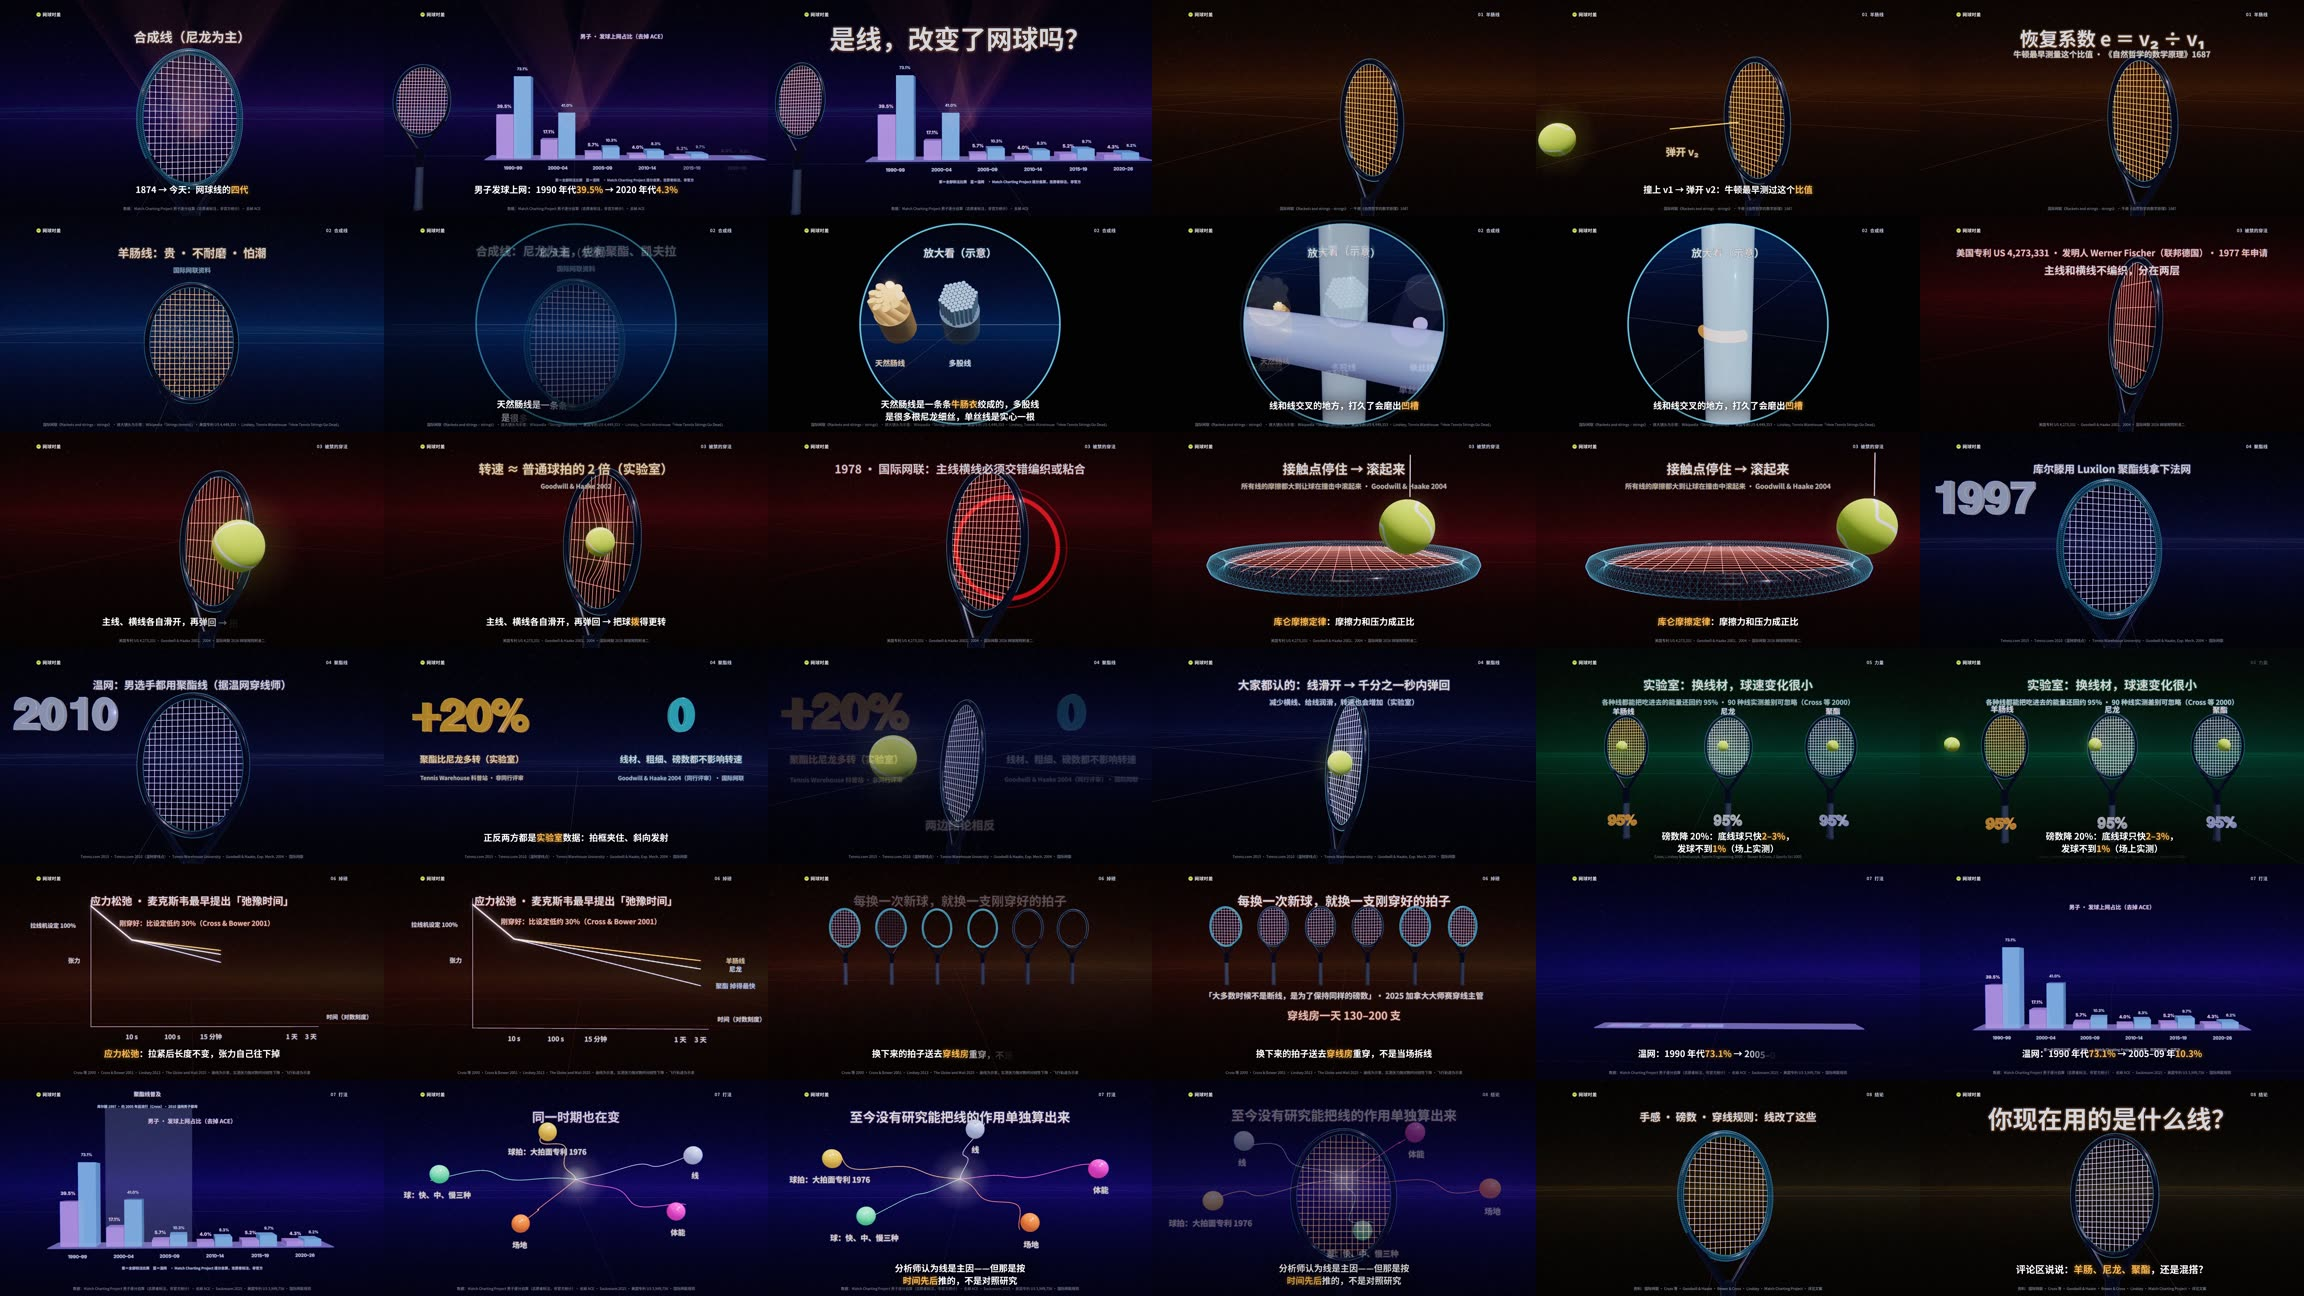
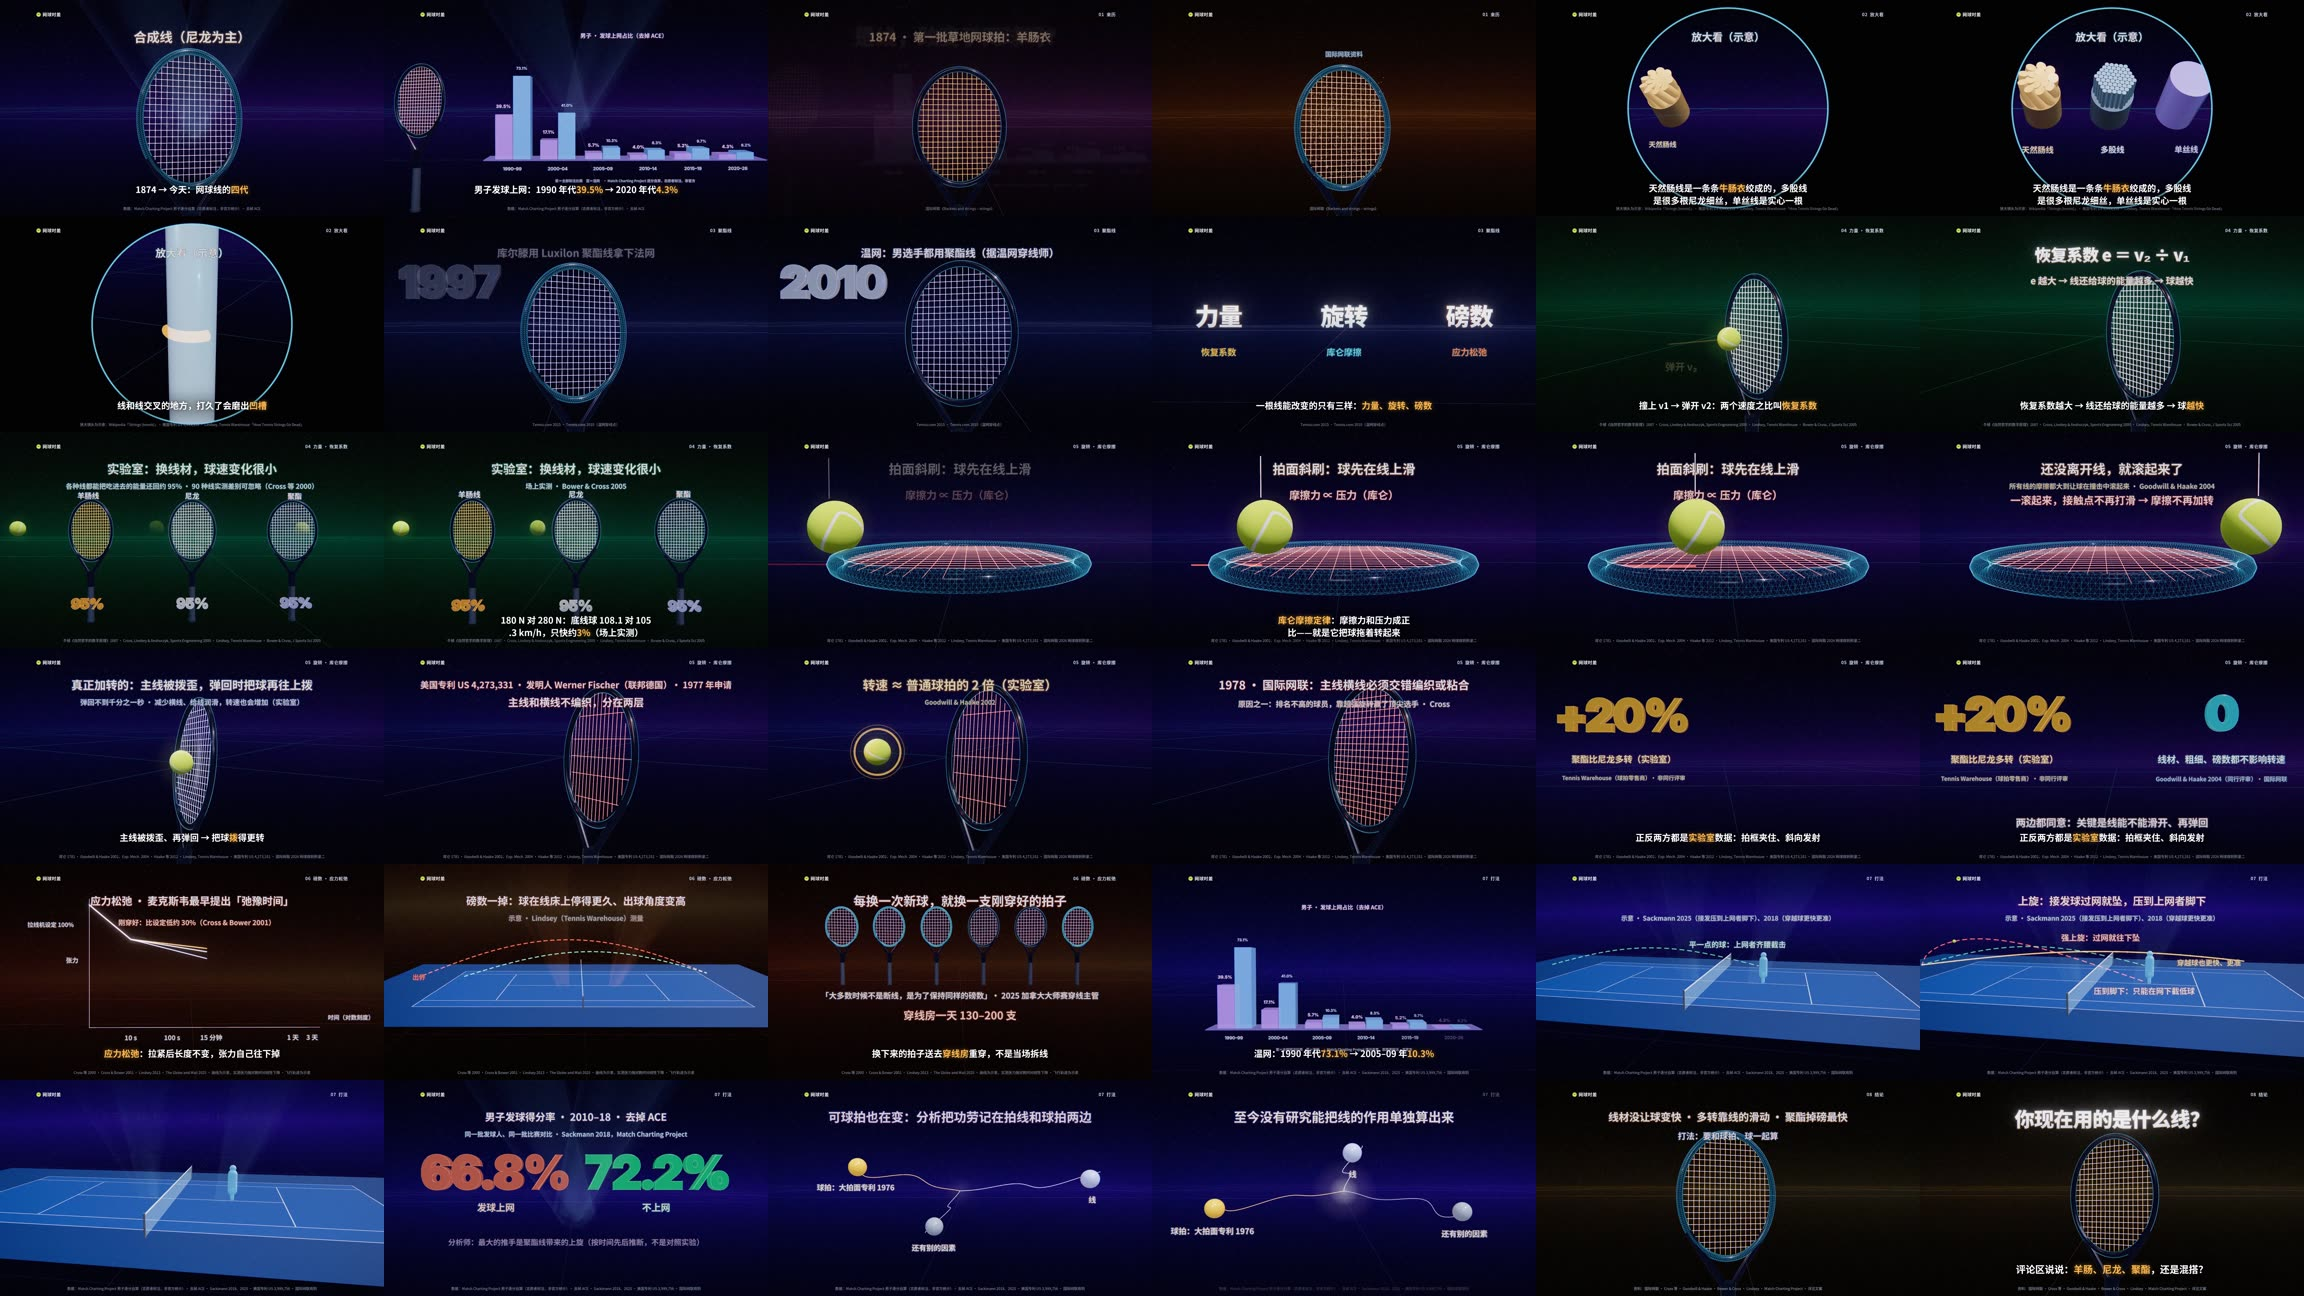
vibetennis EP07 中文版重做定稿：按「来历 → 力量／旋转／磅数 → 打法」重排、补齐会引出新疑问的解释、大字按内容选动效；成片 212.8 s（-14.7 LUFS），质检 0 项不合格，motion_check 0 处跳变，3D 层光晕 106 帧全合格；删 pushed.json 让合并重推
Claude-Session: https://claude.ai/code/session_011V3sK7PtEx5c633ksDxvyf

diff --git a/output/2026-11-05/vibetennis/vibetennis-strings-2026/copy.html b/output/2026-11-05/vibetennis/vibetennis-strings-2026/copy.html
@@ -248,19 +248,19 @@ textarea { display: block; width: 100%; resize: vertical; border: 1px solid var(
       <div class="label"><span>正文</span><button type="button" data-copy="body">复制正文</button></div>
       <textarea id="body" readonly>是线，改变了网球吗？
 
-1874年，第一批草地网球拍上穿的是羊的肠衣。羊肠线贵、不耐磨、怕潮，于是有了尼龙这样的合成线；1997年，库尔滕用聚酯线拿下法网，到2010年，温网的男选手都换上了它。150年，拍线换了四代。
+1874年，第一批网球拍穿的是羊肠。羊肠线贵、不耐磨、怕潮，于是有了尼龙这样的合成线；1997年，库尔滕用聚酯线拿下法网，到2010年，温网的男选手都换上了它。
 
-线到底改变了什么？三条老理论就能讲清楚。
+一根线能改变网球的，只有三样：力量、旋转、磅数。
 
-牛顿碰撞定律：球撞上线床再弹开，前后速度之比叫恢复系数，牛顿最早测过。实验室里换一种线，球速变化很小；磅数降20%，底线球也只快2%到3%，发球不到1%。
+力量，归恢复系数管：球弹开和撞进来的速度之比，牛顿最早测过。比值越大，球越快。可实验室里，各种线都能还回约95%的能量，换一种线，球速变化很小；场上实测，线穿松一些（180牛对280牛），底线球也只快约3%。所以，线没有让球变快。
 
-库仑摩擦定律：球在线上先滑，再被摩擦力带着滚起来。1977年有一支主线和横线不编织的&quot;意面拍&quot;，线能滑开再弹回，实验室里转速接近普通球拍的2倍，1978年国际网联就把它禁了。聚酯线到底多不多转？有实验说多约20%（Tennis Warehouse，非同行评审），同行评审的实验却测不出线材本身的影响。大家都认的只有一点：线能不能滑开、再弹回。
+旋转，归库仑摩擦定律管：拍面斜着刷过去，球先在线上滑，摩擦力和压力成正比，正是这股摩擦拖着球转起来。可同行评审的实验发现，几乎每种线的摩擦都够大，球还没离开线就滚起来了，摩擦再大也加不了转。真正能加转的，是主线被球拨歪、再弹回来的那一下。1977年的&quot;意面拍&quot;主线横线不编织，转速接近普通球拍的2倍，1978年就被国际网联禁了——原因之一，是排名不高的球员靠它的超强旋转赢了顶尖选手。聚酯线呢？零售商Tennis Warehouse的实验说它比尼龙多转约20%，同行评审的实验却测不出材料本身的区别；两边都同意，关键是线能不能滑开、再弹回。
 
-应力松弛：线一拉紧，长度不变，张力自己往下掉。刚穿好就比拉线机设定低约30%，聚酯线掉得最快。所以职业球员每换一次新球，就换一支刚穿好的拍子——加拿大大师赛的穿线房一天要穿130到200支。
+磅数，归应力松弛管：线拉紧后张力自己往下掉，刚穿好就比设定低约30%。磅数一掉，出球角度变高，球就往界外飞。聚酯线掉得最快，所以职业球员每换一次新球，就换一支刚穿好的拍子。
 
-再看打法。我们用 Match Charting Project 的男子逐分数据（志愿者标注，不是官方统计）自算了发球上网的占比（去掉ACE）：1990年代约占40%，2005年后不到10%；只看温网，从73.1%掉到2020年以来的6.2%。时间正好落在聚酯线普及的那几年。
+再看打法。发球上网，就是发完球直接冲网截击。用 Match Charting Project 男子逐分数据（志愿者标注、非官方）自算发球上网占比（去掉ACE）：1990年代约占40%，2005年后不到10%。具体是怎么没的？上旋越来越强，接发球一过网就往下坠，正好压到上网者脚下，穿越球也更快、更准，上网者只能在网下把球往上挑。2010到2018年，同一批发球人发球上网只赢66.8%的分，不上网赢72.2%（Sackmann 统计）。分析师认为最大的推手是聚酯线带来的上旋，但那是按时间先后推的；球拍也在变，至今没有研究能把线的作用单独算出来。
 
-可同一时期，球拍、球和场地也都在变，至今没有一项研究能把线的作用单独算出来。线改变了手感、磅数和穿线的规矩；打法这笔账，要和球拍、球一起算——这是球具三部曲的第一集，下一集讲球拍。
+所以：线材没让球变快；多转的关键是线的滑动；最确定的变化，是聚酯线掉磅更快。打法这笔账，要和球拍、球一起算——这是球具三部曲的第一集，下一集讲球拍。
 
 你现在，用的是什么线？
 
